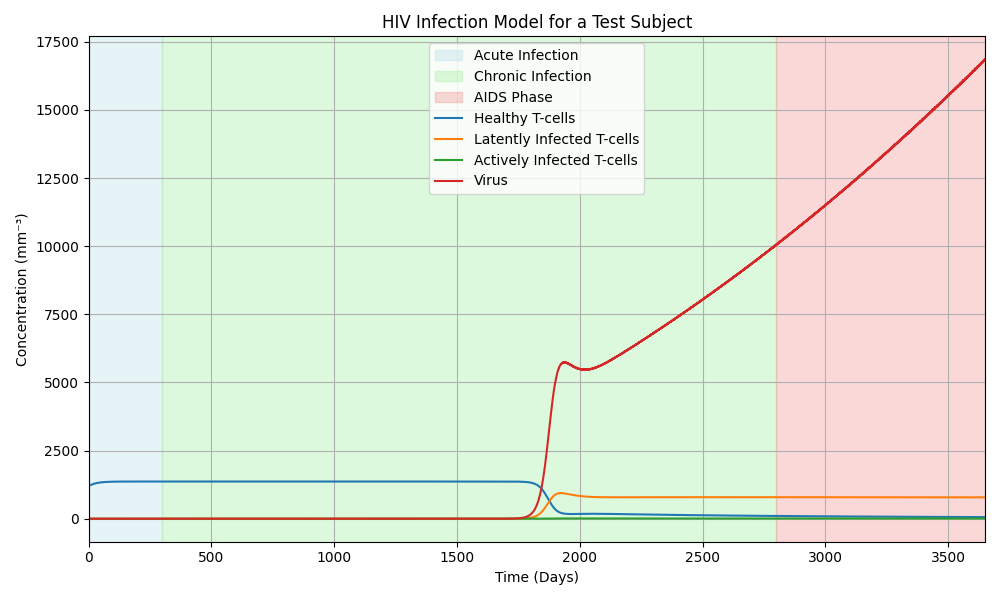
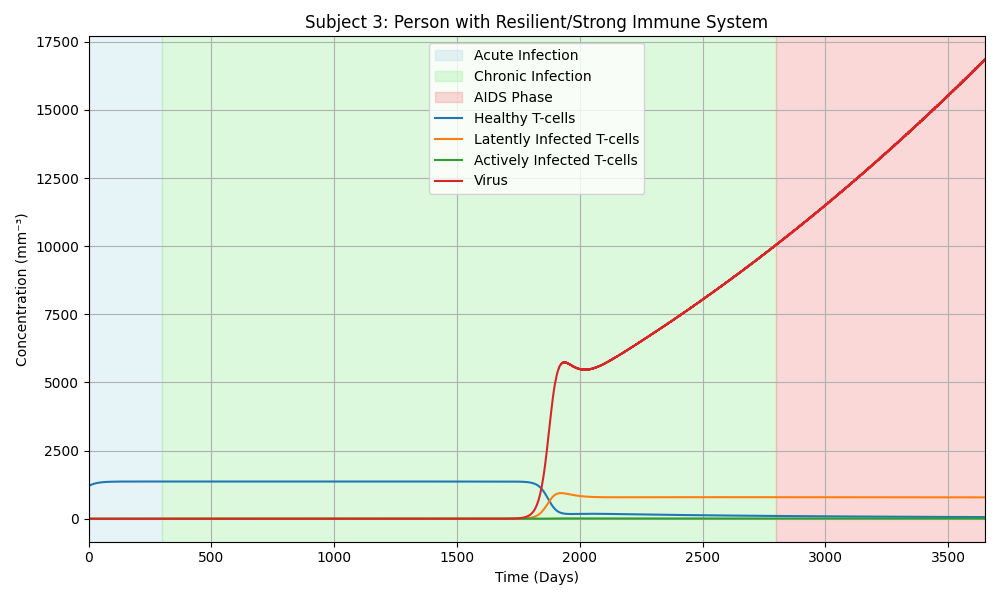
titles

Changed region(s): [[0.31, 0.03, 0.775, 0.06]]

diff --git a/figure3.py b/figure3.py
@@ -47,7 +47,7 @@ def run_hiv_model(
 
     labels = ['Healthy T-cells', 'Latently Infected T-cells', 'Actively Infected T-cells', 'Virus']
     fig, ax = plt.subplots(figsize=(10, 6))
-    ax.set_title('HIV Infection Model for a Test Subject')
+    ax.set_title('Subject 3: Person with Resilient/Strong Immune System')
 
     ax.axvspan(0, 300, color='lightblue', alpha=0.3, label='Acute Infection')
     ax.axvspan(300, 2800, color='lightgreen', alpha=0.3, label='Chronic Infection')

diff --git a/figure2.py b/figure2.py
@@ -48,7 +48,7 @@ def run_hiv_model(
 
     labels = ['Healthy T-cells', 'Latently Infected T-cells', 'Actively Infected T-cells', 'Virus']
     fig, ax = plt.subplots(figsize=(10, 6))
-    ax.set_title('HIV Infection Model for a Test Subject')
+    ax.set_title('Subject 2: Immunocompromised Person')
 
     ax.axvspan(0, 300, color='lightblue', alpha=0.3, label='Acute Infection')
     ax.axvspan(300, 1450, color='lightgreen', alpha=0.3, label='Chronic Infection')

diff --git a/figure1.py b/figure1.py
@@ -49,7 +49,7 @@ def run_hiv_model(
 
     labels = ['Healthy T-cells', 'Latently Infected T-cells', 'Actively Infected T-cells', 'Virus']
     fig, ax = plt.subplots(figsize=(10, 6))
-    ax.set_title('HIV Infection Model for a Test Subject')
+    ax.set_title('Subject 1: Healthy/Average Person')
 
     ax.axvspan(0, 300, color='lightblue', alpha=0.3, label='Acute Infection')
     ax.axvspan(300, 2000, color='lightgreen', alpha=0.3, label='Chronic Infection')

diff --git a/figure0.py b/figure0.py
@@ -47,7 +47,7 @@ def run_hiv_model(
 
     labels = ['Healthy T-cells', 'Virus']
     fig, ax = plt.subplots(figsize=(10, 6))
-    ax.set_title('HIV Infection Model for a Test Subject')
+    ax.set_title('Base Case (No HIV introduced)')
     """
     ax.axvspan(0, 300, color='lightblue', alpha=0.3, label='Acute Infection')
     ax.axvspan(300, 2000, color='lightgreen', alpha=0.3, label='Chronic Infection')
